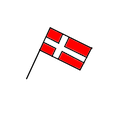
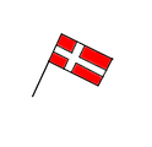
potioneret stol/betjeningspanal

Changed region(s): [[0.1935, 0.225, 0.75, 0.675]]

diff --git a/index.html b/index.html
@@ -65,6 +65,9 @@
            <input type="file" class="close-btn-48" name="files[]" multiple />
     </span> 
         
+    <div>  <img class="flag" src="img/vinderflag.png"/>
+            
+   </div>
     
     <a href="index_2.html">
         <div class="about">
